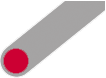
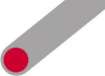
Rollover color and graphic fixes

diff --git a/app/assets/stylesheets/application.css.scss b/app/assets/stylesheets/application.css.scss
@@ -5,23 +5,23 @@
 $telephoneRed: #CB213E;
 $workNavBG: #e0e0e0;
 
-$categoryDesign: #99cc66;
-$categoryMultimedia: #cc99cc;
-$categoryPerformance: #cc9999;
-$categoryPrint: #99cc66;
-$categoryInstallation: #990099;
-$categoryProse: #996633;
-$categoryPoetry: #ffcc00;
-$categoryMusic: #ff6633;
-$categoryAudio: #ff6633;
-$categoryCollage: #cc99cc;
-$categoryPainting: #ff9933;
-$scategorySculpture: #333399;
-$categoryPhotography: #e96a1e;
-$categoryFilm: #cc0033;
-$categoryVideo: #cc0033;
-$categoryEmbroidery: #666666;
-$categoryOther: #666666;
+$categoryDesign: #b1d565;
+$categoryMultimedia: #c2a0d6;
+$categoryPerformance: #e38897;
+$categoryPrint: #b1d565;
+$categoryInstallation: #9a068a;
+$categoryProse: #987835;
+$categoryPoetry: #f7dc00;
+$categoryMusic: #e96a1e;
+$categoryAudio: #e96a1e;
+$categoryCollage: #c2a0d6;
+$categoryPainting: #f1a31c;
+$scategorySculpture: #2e4486;
+$categoryPhotography: #58622a;
+$categoryFilm: #c70c4a;
+$categoryVideo: #c70c4a;
+$categoryEmbroidery: #7f7f7f;
+$categoryOther: #7f7f7f;
 
 @mixin categoryDesignForeground { color: $categoryDesign; border-color: $categoryDesign;}
 @mixin categoryMultimediaForeground { color: $categoryMultimedia; border-color: $categoryMultimedia;}
@@ -121,7 +121,7 @@ table {
 
 section.workInfoPane { position: absolute; left: 20px; top: 20px; text-transform: uppercase; }
 section.artistInfo { 
-  width: 200px; background-color: $categoryPhotography; color: white; 
+  width: 200px; background-color: $categoryPhotography; color: white; text-transform: uppercase;
   .artistName { font-size: 28px; line-height: 90%; padding: 16px 0 0 16px; }
   .workMedium { font-size: 20px; margin: 11px 0; padding: 0 0 0 16px; } 
   .workLocation { font-size: 14px; width: 65%; padding: 0 0 14px 16px; }
